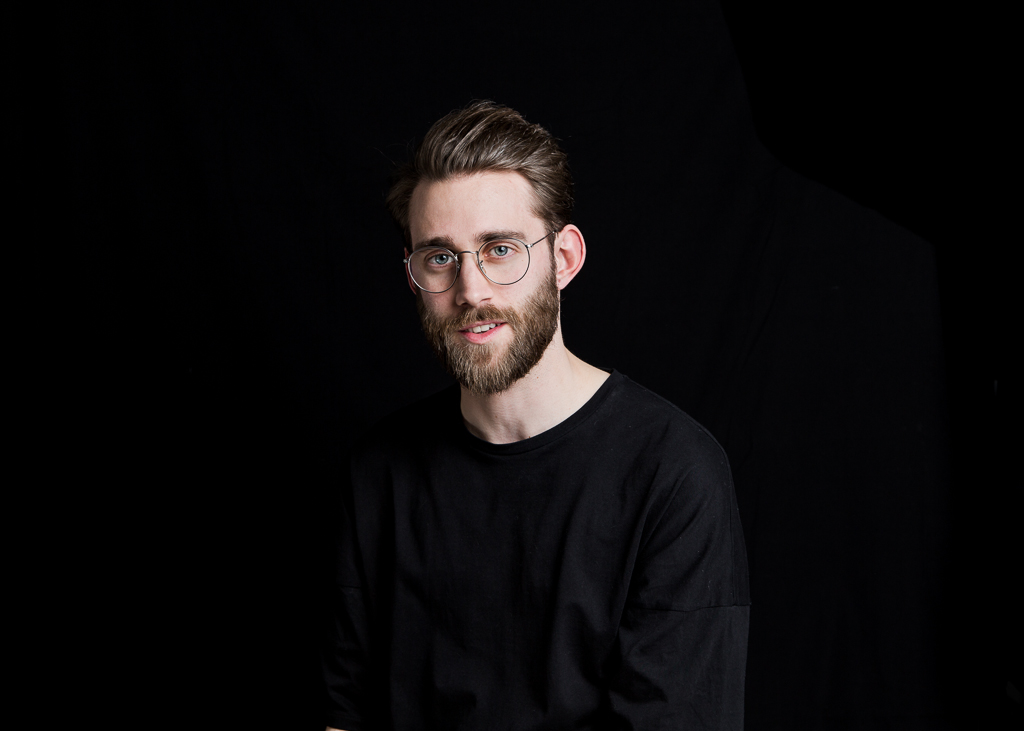
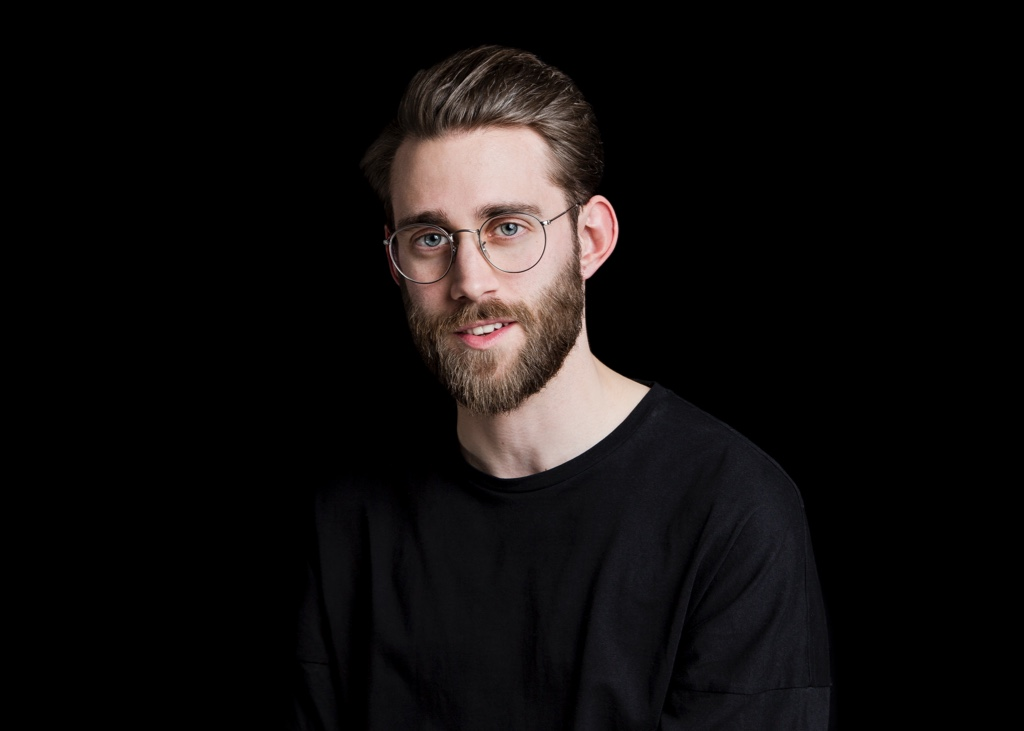
Upate images for supporting retina displays

diff --git a/stylesheets/styles.css b/stylesheets/styles.css
@@ -39,7 +39,7 @@ body {
   -o-background-size: cover;
   background-size: cover;
   background-position: 50%;
-  background-image: url('../images/thomaspaulmann.jpg');
+  background-image: url('../images/thomaspaulmann@2x.jpg');
 }
 
 .content_container {
